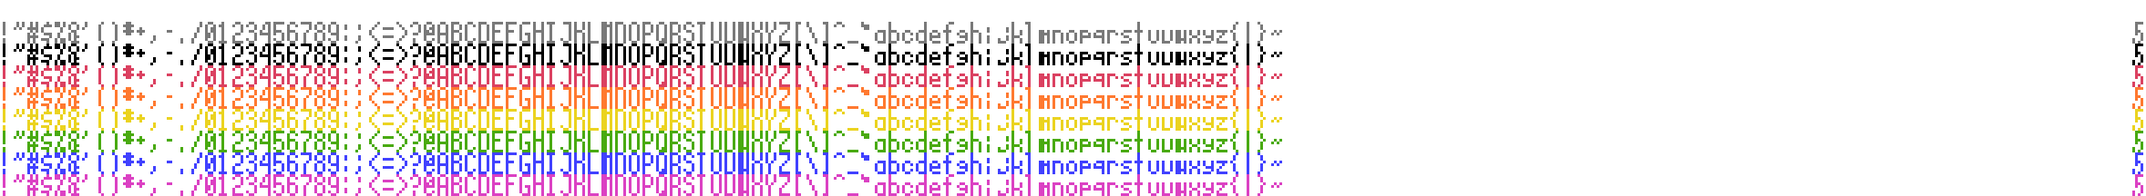
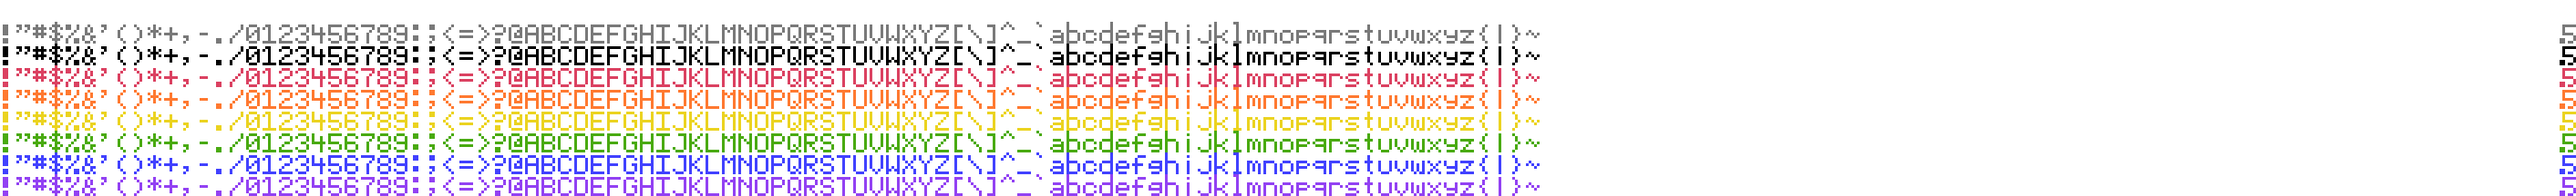
widened text

Changed region(s): [[0.0, 0.1111, 0.62, 1.0], [0.9919, 0.1111, 1.0, 1.0]]

diff --git a/js/plugins/TurnBasedStrategyWindows.js b/js/plugins/TurnBasedStrategyWindows.js
@@ -4320,11 +4320,15 @@ Window_StatusAttributeDescription.prototype.drawAttributeDescription = function(
 	};
 	
 	Window_Base.prototype.standardPadding = function() {
-		return this.standardPixelSize()*2;
+		return this.standardPixelSize()*3;
 	};
 
 	Window_Base.prototype.textPadding = function() {
 		return this.standardPixelSize();
+	};
+	
+	Window_Base.prototype.standardBackOpacity = function() {
+		return 255;
 	};
 	
 	Window_Base.prototype.standardPixelSize = function() {

diff --git a/js/plugins/TurnBasedStrategyCore.js b/js/plugins/TurnBasedStrategyCore.js
@@ -103,7 +103,7 @@ Bitmap.prototype.standardCharacterHeight = function() {
 };
 
 Bitmap.prototype.standardCharacterWidth = function() {
-	return 5*this.standardPixelSize();
+	return 6*this.standardPixelSize();
 };
 
 //touch input
